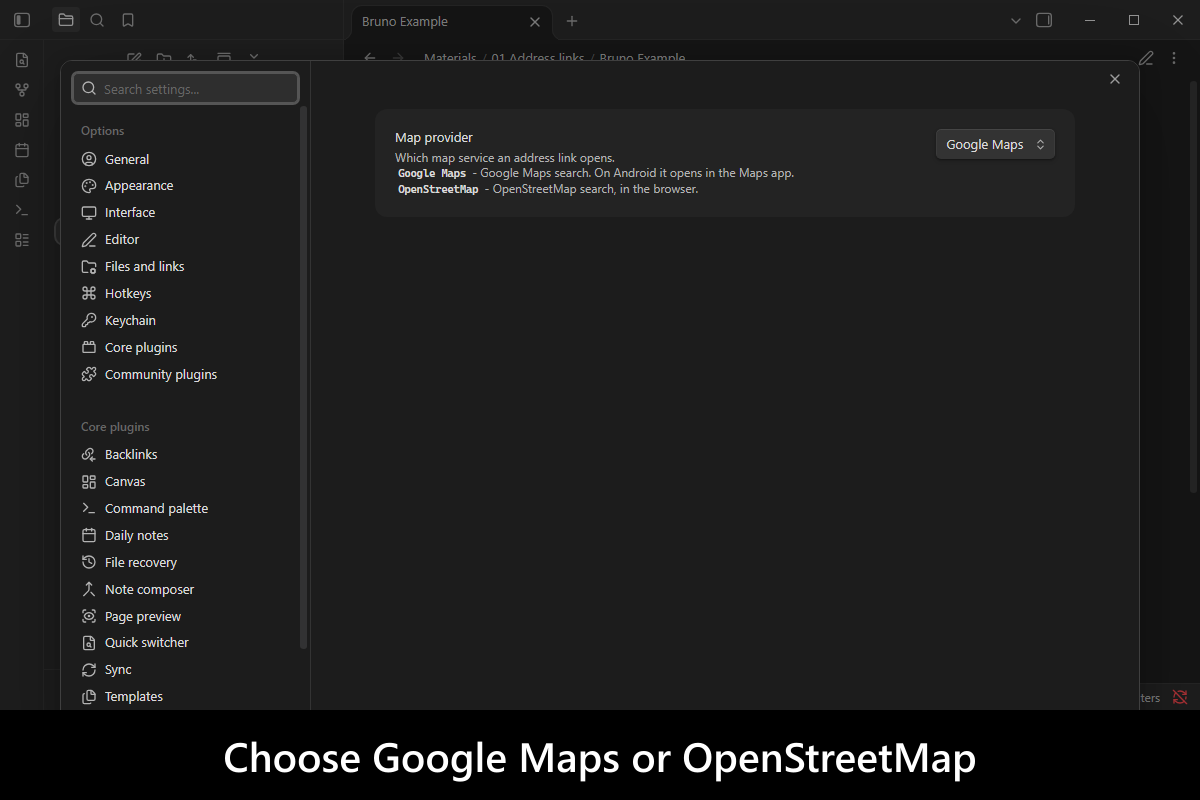
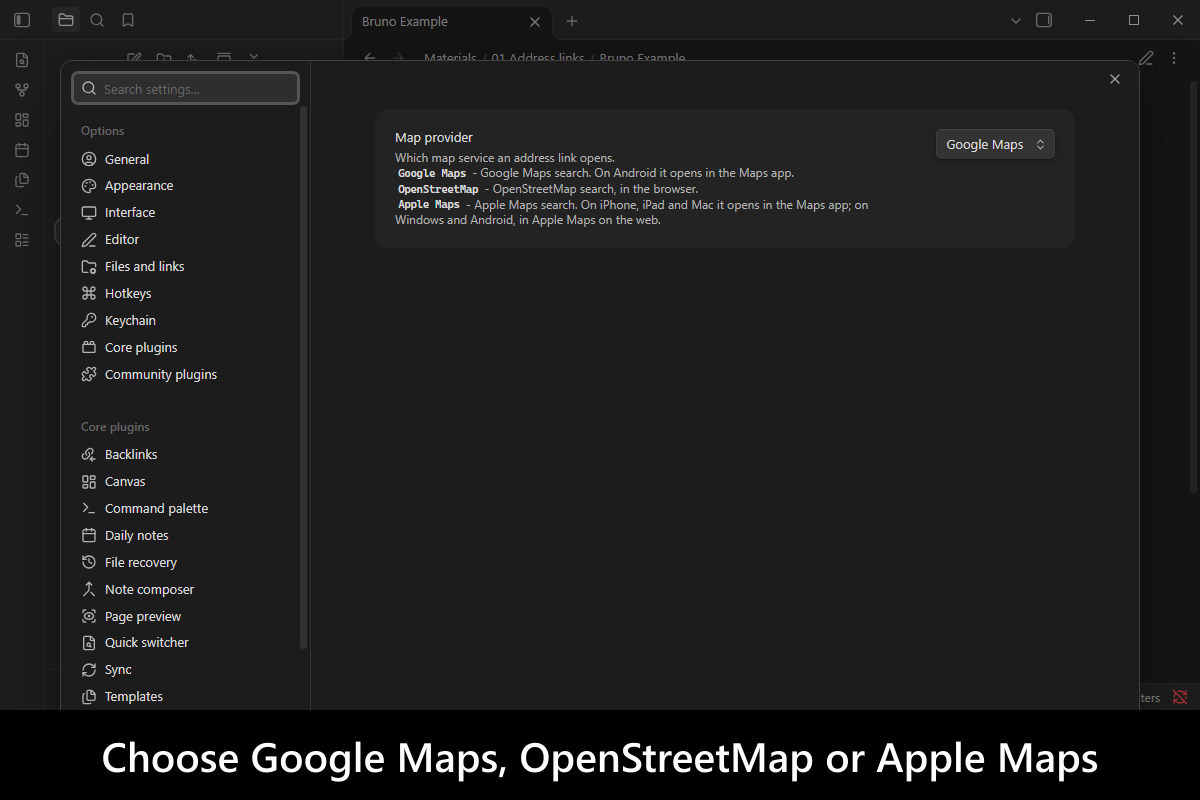
docs(screenshots): recapture the store screenshots with the Apple Maps provider

Changed region(s): [[0.0617, 0.9062, 0.925, 0.9688], [0.3083, 0.25, 0.7092, 0.2812]]

diff --git a/src/screenshots.android-capture.integration.test.ts b/src/screenshots.android-capture.integration.test.ts
@@ -107,7 +107,7 @@ describe('mobile store screenshots', () => {
 
   it('3 - the settings tab', { timeout: TEST_TIMEOUT_IN_MILLISECONDS }, async () => {
     expect(await stage('settings')).toBe('settings');
-    await shoot(3, 'Choose Google Maps or OpenStreetMap');
+    await shoot(3, 'Choose Google Maps, OpenStreetMap or Apple Maps');
   });
 }); /**
  * Captures the device framebuffer, captions it, and writes it as `images/screenshots/screenshot-mobile-<index>.png`.

diff --git a/src/screenshots.desktop-capture.integration.test.ts b/src/screenshots.desktop-capture.integration.test.ts
@@ -145,7 +145,7 @@ describe('desktop store screenshots', () => {
 
   it('3 - the settings tab', { timeout: TEST_TIMEOUT_IN_MILLISECONDS }, async () => {
     expect(await stage('settings')).toBe('settings');
-    await shoot(3, 'Choose Google Maps or OpenStreetMap');
+    await shoot(3, 'Choose Google Maps, OpenStreetMap or Apple Maps');
   });
 }); /**
  * Captures the window, captions it, and writes it as `images/screenshots/screenshot-desktop-<index>.png`.

diff --git a/README.md b/README.md
@@ -15,10 +15,10 @@ A person's or a place's note often holds its address, but in Obsidian an address
 
 <div>
 <a href="https://github.com/mnaoumov/obsidian-address-map-links/blob/HEAD/images/screenshots/screenshot-desktop-2.png"><img src="images/screenshots/screenshot-desktop-2.png" alt="A custom address type, a street alone and a link to a missing note" width="600"></a>
-<a href="https://github.com/mnaoumov/obsidian-address-map-links/blob/HEAD/images/screenshots/screenshot-desktop-3.png"><img src="images/screenshots/screenshot-desktop-3.png" alt="Choose Google Maps or OpenStreetMap" width="600"></a>
+<a href="https://github.com/mnaoumov/obsidian-address-map-links/blob/HEAD/images/screenshots/screenshot-desktop-3.png"><img src="images/screenshots/screenshot-desktop-3.png" alt="Choose Google Maps, OpenStreetMap or Apple Maps" width="600"></a>
 <a href="https://github.com/mnaoumov/obsidian-address-map-links/blob/HEAD/images/screenshots/screenshot-mobile-1.png"><img src="images/screenshots/screenshot-mobile-1.png" alt="Address properties shown as map links under the properties" width="270"></a>
 <a href="https://github.com/mnaoumov/obsidian-address-map-links/blob/HEAD/images/screenshots/screenshot-mobile-2.png"><img src="images/screenshots/screenshot-mobile-2.png" alt="A custom address type, a street alone and a link to a missing note" width="270"></a>
-<a href="https://github.com/mnaoumov/obsidian-address-map-links/blob/HEAD/images/screenshots/screenshot-mobile-3.png"><img src="images/screenshots/screenshot-mobile-3.png" alt="Choose Google Maps or OpenStreetMap" width="270"></a>
+<a href="https://github.com/mnaoumov/obsidian-address-map-links/blob/HEAD/images/screenshots/screenshot-mobile-3.png"><img src="images/screenshots/screenshot-mobile-3.png" alt="Choose Google Maps, OpenStreetMap or Apple Maps" width="270"></a>
 </div>
 
 </details>

diff --git a/AGENTS.md b/AGENTS.md
@@ -77,4 +77,3 @@ The Properties panel does not edit nested objects; they are edited in Source mod
 ### Settings
 
 - Map provider: Google Maps (default), OpenStreetMap or Apple Maps, an enum dropdown listed in that order.
-- The store screenshots still show the two-option dropdown until they are recaptured.
